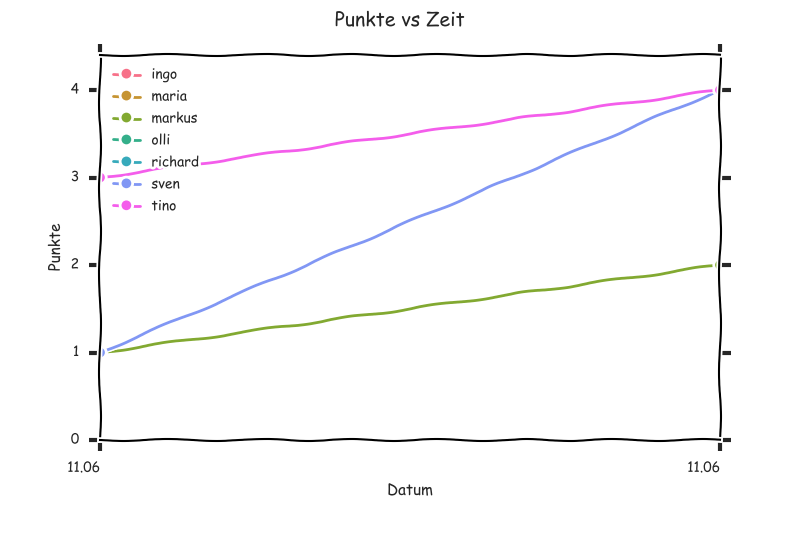
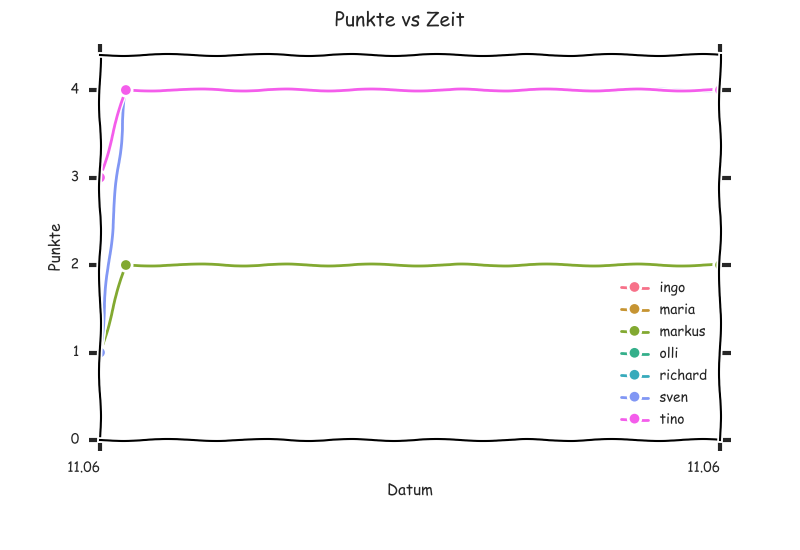
123

diff --git a/tippspiel.py b/tippspiel.py
@@ -110,6 +110,7 @@ def update_data():
     series.name = datetime.datetime.now()
     colors = sns.color_palette("husl", len(series))
     ax = series.plot(kind="bar", rot=0, sort_columns=True, color=colors)
+    ax.yaxis.set_major_locator(ticker.MaxNLocator(integer=True))
     fig = ax.get_figure()
     fig.suptitle("Aktuelles Ranking")
     plt.xlabel("Spieler")
@@ -121,7 +122,7 @@ def update_data():
     else:
         df = pd.DataFrame()
     df = df.append(series)
-    df.drop_duplicates(inplace=True)
+    #df.drop_duplicates(inplace=True)
 
     ax = df.plot(sort_columns=True, rot=0, color=colors, marker='o')
     ax.xaxis.set_major_locator(dates.WeekdayLocator(byweekday=range(1, 8), interval=1))
